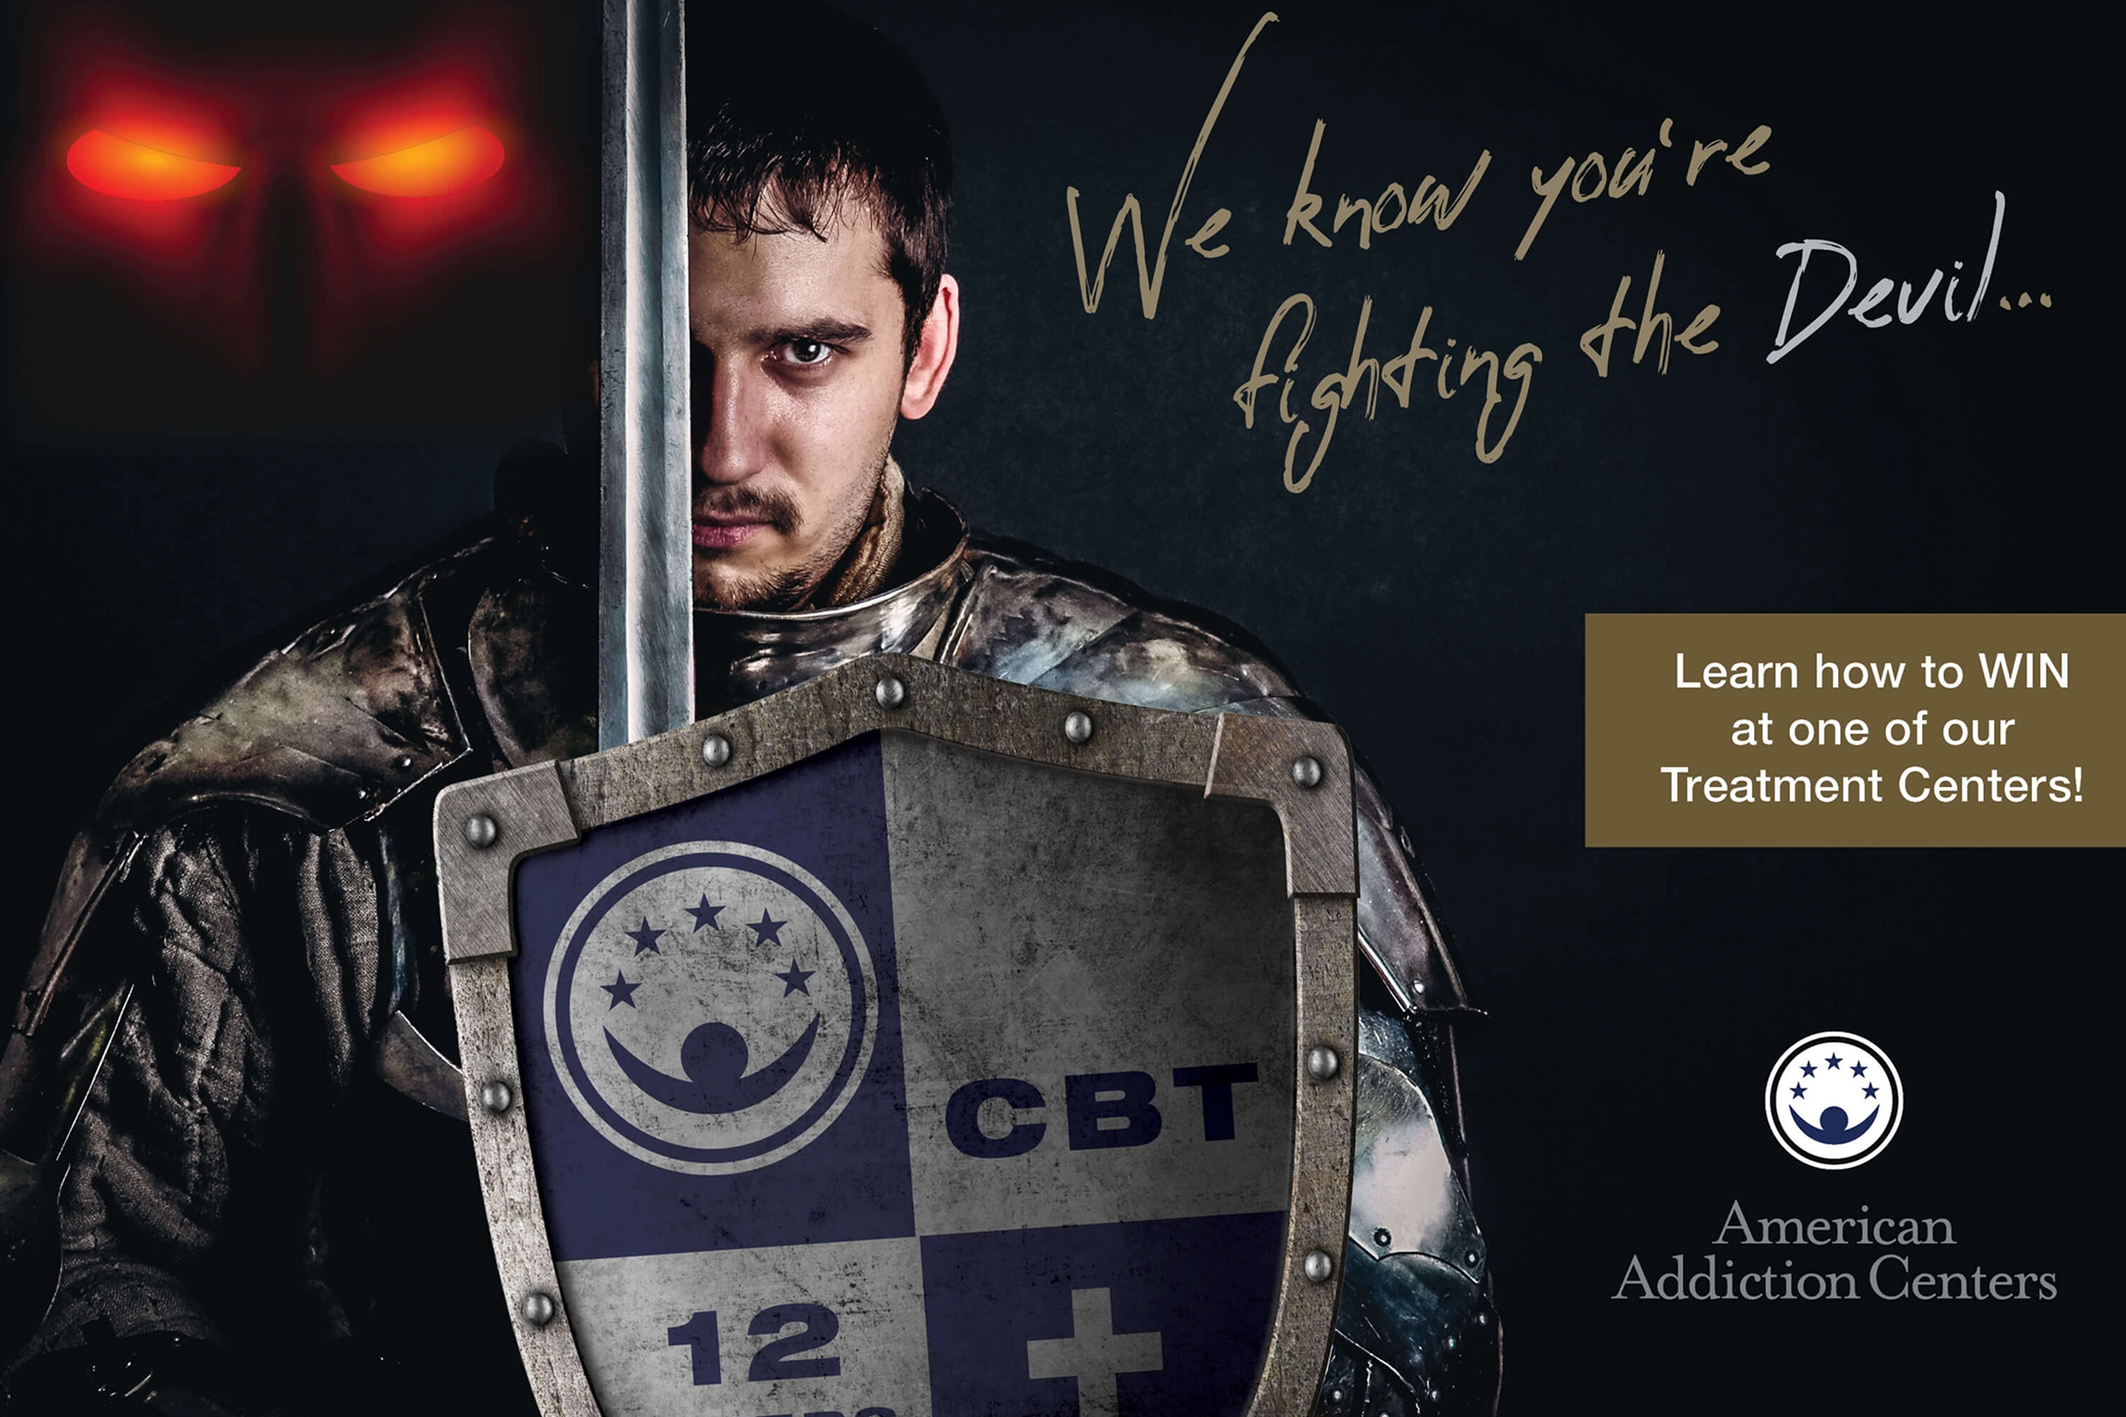
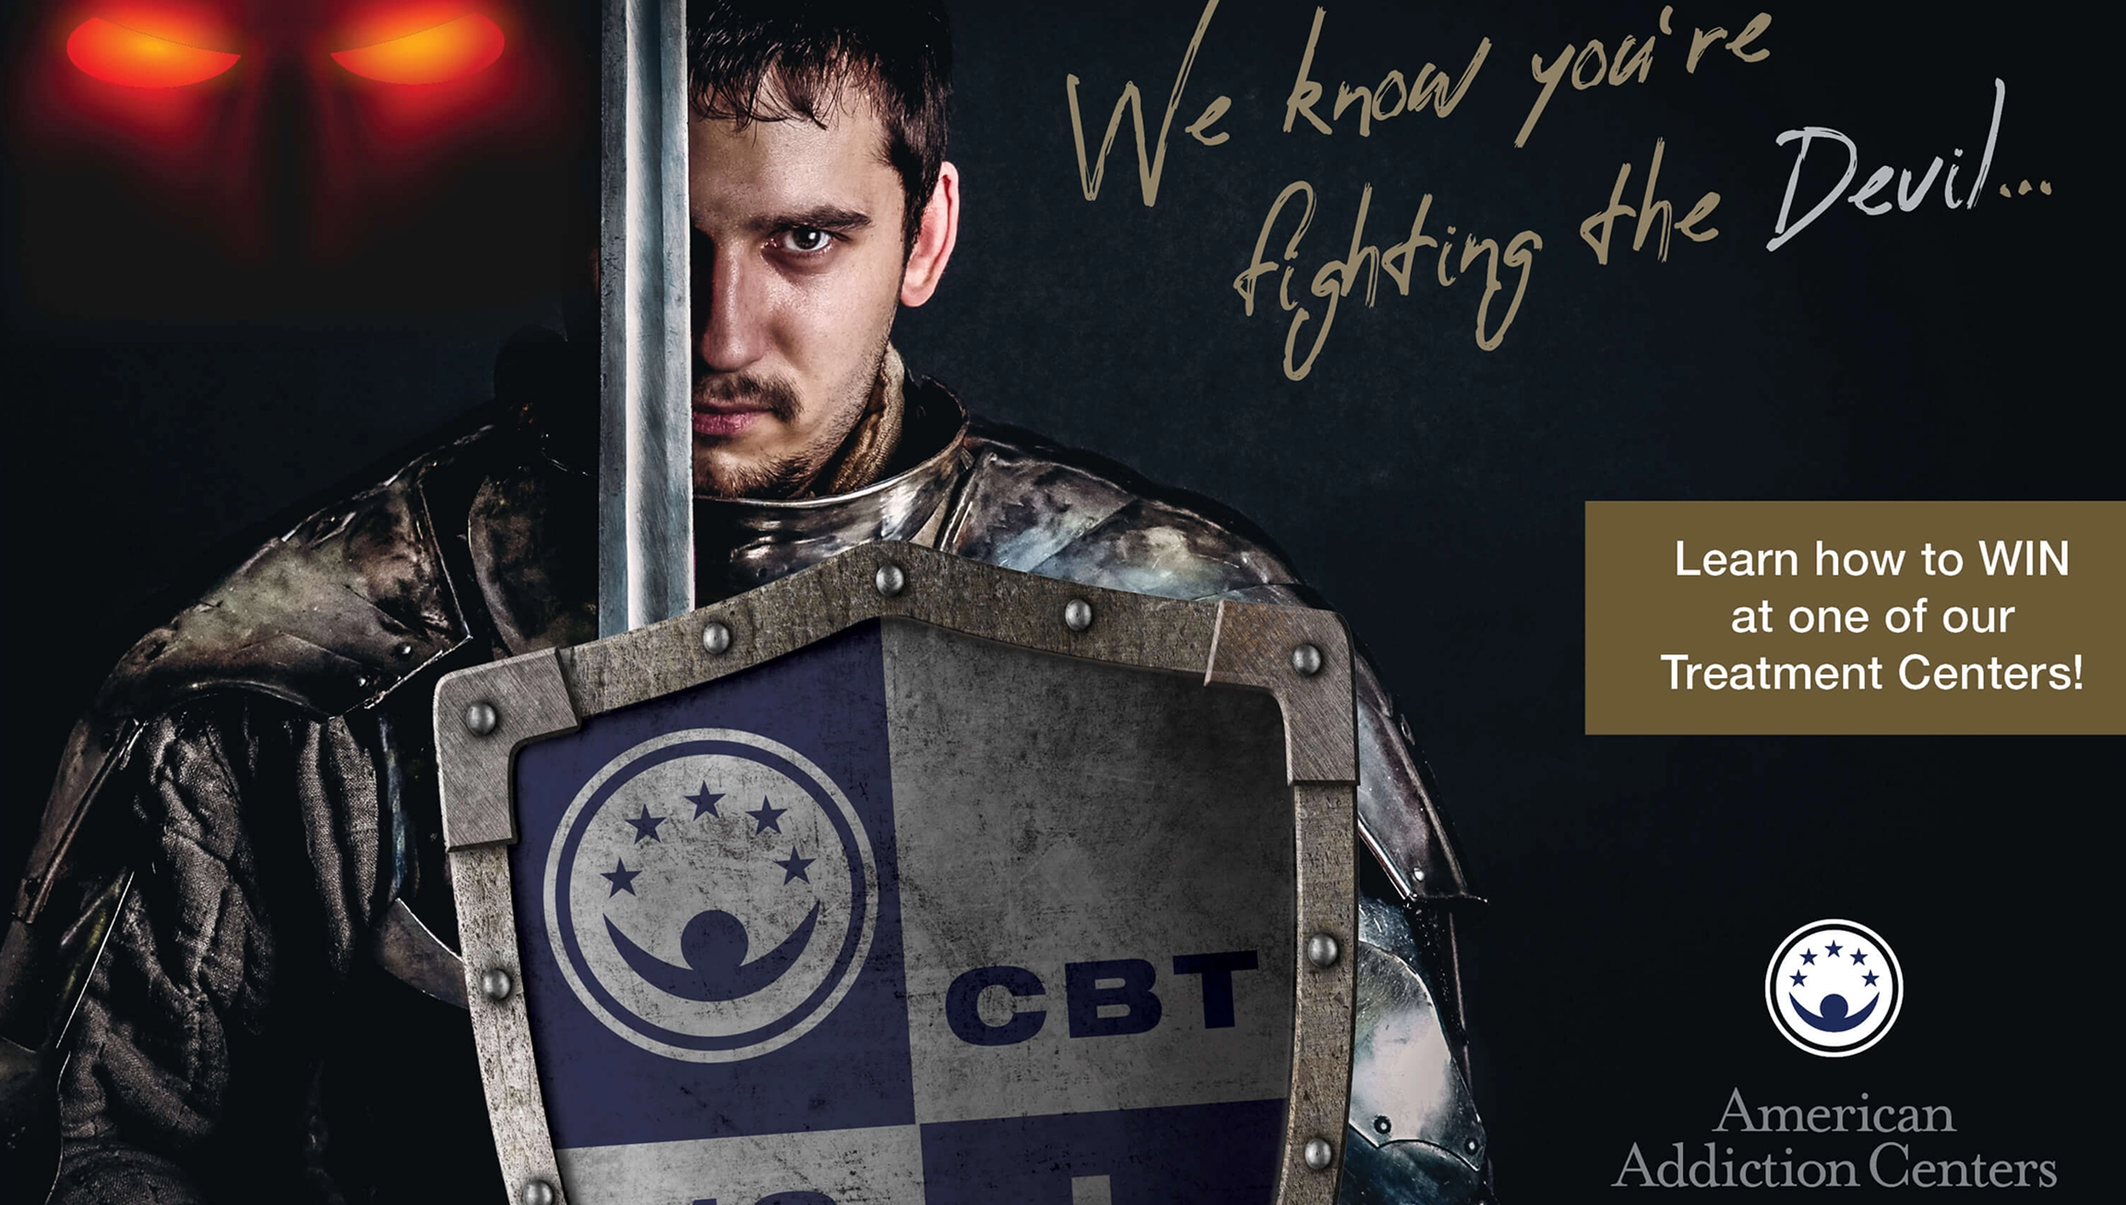
homepage  updates

diff --git a/index.html b/index.html
@@ -7,9 +7,9 @@ active_page: home
         <main uk-height-viewport="expand:true">
             <div class="uk-section uk-section-small">
                 <div class="uk-container uk-container-large">
-                    <div class="uk-width-1-1 uk-width-expand@m uk-margin-auto " uk-scrollspy="target: > div > div; cls: uk-animation-slide-bottom-small uk-animation-slide-right; delay: 200">
+                    <div class="uk-width-1-1 uk-width-expand@m uk-margin-auto" uk-scrollspy="target: > div > div; cls: uk-animation-slide-bottom-small uk-animation-slide-right; delay: 200">
 
-                        <div class="uk-grid uk-grid-large uk-flex uk-flex-top" uk-grid>
+                        <div class="uk-grid uk-flex uk-flex-top uk-grid-divider" uk-grid>
                             <!-- introduction start -->
                             <div id="introduction" class="uk-width-expand@m" >
                                 <h1 class="fw-600 " style="font-size: clamp(1.5rem, 3.5vw, 3rem)">Senior Multichannel Graphic Designer</h1>
@@ -31,132 +31,107 @@ active_page: home
 
 
                             <!-- projects -->
-                            <div id="samples" class="uk-width-2-3@m">
+                            <div id="samples" class="uk-width-3-5@m">
+                                
+                                <div class="">
 
+<div class="uk-grid uk-grid-medium uk-child-width-1-2@s" uk-grid>
 
-                                <div class="uk-grid uk-grid-small uk-child-width-1-2@s uk-light" uk-grid >
+    <!-- American Addiction Centers -->
+    <div>
+        <div class="uk-card uk-card-hover uk-background-muted uk-border-rounded-medium uk-overflow-hidden uk-transition-toggle uk-link-toggle" tabindex="0">
+            <a href="american-addiction-centers.html" class="uk-link-reset">
+                <div class="uk-card-media-top uk-inline-clip uk-border-rounded">
+                    <img src="img/aac/5W_AAC_home-cover.webp" alt="American Addiction Centers" class="uk-transition-scale-up uk-transition-opaque" uk-img>
+                </div>
+                <div class="uk-card-body uk-card-small">
+                    <h3 class="uk-card-title fs-14 fw-700 uk-margin-remove-bottom uk-margin-remove-top">American Addiction Centers</h3>
+                    <div class="fs-12 uk-text-muted uk-margin-xsmall-bottom">Campaigns &amp; Lead Gen</div>
+                </div>
+            </a>
+        </div>
+    </div>
 
-                                    <!-- American Addiction Centers -->
-                                    <div>
-                                        <a href="american-addiction-centers.html">
-                                            <div>
-                                                <div class="uk-background-cover uk-height-medium uk-panel uk-overflow-hidden uk-border-rounded-medium" style="background-image: url(img/aac/5W_AAC_home-cover.webp)">
+    <!-- Boy Scouts of America -->
+    <div>
+        <div class="uk-card uk-card-hover uk-background-muted uk-border-rounded-medium uk-overflow-hidden uk-transition-toggle uk-link-toggle" tabindex="0">
+            <a href="bsa-sjac.html" class="uk-link-reset">
+                <div class="uk-card-media-top uk-inline-clip uk-border-rounded">
+                    <img src="img/bsa/bsa-home-cover.webp" alt="Boy Scouts of America" class="uk-transition-scale-up uk-transition-opaque" uk-img>
+                </div>
+                <div class="uk-card-body uk-card-small">
+                        <h3 class="uk-card-title fs-14 fw-700 uk-margin-remove-bottom uk-margin-remove-top">Boy Scouts of America</h3>
+                    <div class="fs-12 uk-text-muted uk-margin-xsmall-bottom">Campaigns &amp; Lead Gen</div>
+                </div>
+            </a>
+        </div>
+    </div>
 
-                                                    <div class="uk-position-cover dark-frost"></div>
+    <!-- Chicago Auto Show -->
+    <div>
+        <div class="uk-card uk-card-hover uk-background-muted uk-border-rounded-medium uk-overflow-hidden uk-transition-toggle uk-link-toggle" tabindex="0">
+            <a href="chicago-auto-show.html" class="uk-link-reset">
+                <div class="uk-card-media-top uk-inline-clip">
+                    <img src="img/cas/cas_home-cover.webp" alt="Chicago Auto Show" class="uk-transition-scale-up uk-transition-opaque" uk-img>
+                </div>
+                <div class="uk-card-body uk-card-small ">
+                    <h3 class="uk-card-title fs-14 fw-700 uk-margin-remove-bottom uk-margin-remove-top">Chicago Auto Show</h3>
+                    <div class="fs-12 uk-text-muted uk-margin-xsmall-bottom">Brand &amp; Experiential</div>
+                </div>
+            </a>
+        </div>
+    </div>
 
-                                                    <div class="uk-overlay uk-position-bottom text-shadow">
-                                                        <div class="fs-24 fw-600 uk-margin-xsmall-bottom">American Addiction Centers</div>
-                                                        <div class="fs-18 fw-500 uk-margin-small-bottom">Multichannel eBook lead gen campaign &nbsp;&rarr;</div>
-                                                        <div class="fs-12 fw-400 uk-margin-small-bottom uk-hidden" style="letter-spacing: 0.25px"> Re-engaging specific, high-value segments through personalized, multichannel ebook campaign.</div>
-                                                        <div class="uk-label uk-background-muted uk-border-pill fs-10 fw-400">Campaigns &amp; Lead Gen</div>
-                                                    </div>
-                                                </div>
-                                            </div>
-                                        </a>
+    <!-- 5W Insights -->
+    <div>
+        <div class="uk-card uk-card-hover uk-background-muted uk-border-rounded-medium uk-overflow-hidden uk-transition-toggle uk-link-toggle" tabindex="0">
+            <a href="5winsights.html" class="uk-link-reset">
+                <div class="uk-card-media-top uk-inline-clip">
+                    <img src="img/5winsights/5w_home-cover.webp" alt="5W Insights" class="uk-transition-scale-up uk-transition-opaque" uk-img>
+                </div>
+                <div class="uk-card-body uk-card-small ">
+                    <h3 class="uk-card-title fs-14 fw-700 uk-margin-remove-bottom uk-margin-remove-top">5W Insights</h3>
+                    <div class="fs-12 uk-text-muted uk-margin-xsmall-bottom">Brand &amp; Experiential</div>
+                </div>
+            </a>
+        </div>
+    </div>
+
+    <!-- Strategic Design Transformations -->
+    <div>
+        <div class="uk-card uk-card-hover uk-background-muted uk-border-rounded-medium uk-overflow-hidden uk-transition-toggle uk-link-toggle" tabindex="0">
+            <a href="strategic-design-transformations.html" class="uk-link-reset">
+                <div class="uk-card-media-top uk-inline-clip">
+                    <img src="img/5winsights/sdt_home-cover.webp" alt="Strategic Design Transformations" class=" uk-transition-scale-up uk-transition-opaque" uk-img>
+                </div>
+                <div class="uk-card-body uk-card-small ">
+                    <h3 class="uk-card-title fs-14 fw-700 uk-margin-remove-bottom uk-margin-remove-top">Strategic Design Transformations</h3>
+                    <div class="fs-12 uk-text-muted uk-margin-xsmall-bottom">Digital Experience &amp; UI/UX</div>
+                </div>
+            </a>
+        </div>
+    </div>
+
+    <!-- Mack Trucks -->
+    <div>
+        <div class="uk-card uk-card-hover uk-background-muted uk-border-rounded-medium uk-overflow-hidden uk-transition-toggle uk-link-toggle" tabindex="0">
+            <a href="mack.html" class="uk-link-reset">
+                <div class="uk-card-media-top uk-inline-clip">
+                    <img src="img/mack/mack_home-cover.webp" alt="Mack Trucks" class="uk-transition-scale-up uk-transition-opaque" uk-img>
+                </div>
+                <div class="uk-card-body uk-card-small ">
+                    <h3 class="uk-card-title fs-14 fw-700 uk-margin-remove-bottom uk-margin-remove-top">Mack Trucks</h3>
+                    <div class="fs-12 uk-text-muted uk-margin-xsmall-bottom">Digital Experience &amp; UI/UX</div>
+                </div>
+            </a>
+        </div>
+    </div>
+
+</div>
                                     </div>
-
-                                    <!-- Boy Scouts -->
-                                    <div>
-                                        <a href="bsa-sjac.html">
-                                            <div>
-                                                <div class="uk-background-cover uk-height-medium uk-panel uk-overflow-hidden uk-border-rounded-medium" style="background-image: url(img/bsa/bsa-home-cover.webp)">
-
-                                                    <div class="uk-position-cover dark-frost"></div>
-
-                                                    <div class="uk-overlay uk-position-bottom text-shadow">
-                                                        <div class="fs-24 fw-600 uk-margin-xsmall-bottom">Boy Scouts of America</div>
-                                                        <div class="fs-18 fw-500 uk-margin-small-bottom">Highly successful fundraising appeal&nbsp;&rarr;</div>
-                                                        <div class="uk-label uk-background-muted uk-border-pill fs-10 fw-400">Campaigns &amp; Lead Gen</div>
-                                                    </div>
-                                                </div>
-                                            </div>
-                                        </a>
-                                    </div>
-                                    
-                                    <!-- Chicago Auto Show -->
-                                    <div>
-                                        <a href="chicago-auto-show.html">
-                                            <div>
-                                                <div class="uk-background-cover uk-height-medium uk-panel uk-overflow-hidden uk-border-rounded-medium" style="background-image: url(img/cas/cas-cta-banner.webp)">
-
-                                                    <div class="uk-position-cover dark-frost"></div>
-
-                                                    <div class="uk-overlay uk-position-bottom text-shadow">
-                                                        <div class="fs-24 fw-600 uk-margin-xsmall-bottom">Chicago Auto Show</div>
-                                                        <div class="fs-18 fw-500 uk-margin-small-bottom">Designing immersive event spaces&nbsp;&rarr;</div>
-                                                        <div class="fs-12 fw-400 uk-margin-small-bottom uk-visible@s" style="letter-spacing: 0.25px"></div>
-                                                        <div class="uk-label uk-background-muted uk-border-pill fs-10 fw-400">Brand &amp; Experiential</div>
-                                                    </div>
-                                                </div>
-                                            </div>
-                                        </a>
-                                    </div>          
-
-                                    <!-- 5W Insights -->
-                                    <div>
-                                        <a href="5winsights.html">
-                                            <div>
-                                                <div class="uk-background-cover uk-height-medium uk-panel uk-overflow-hidden uk-border-rounded-medium" style="background-image: url(img/5winsights/conference-backdrop-mockup.webp)">
-
-                                                    <div class="uk-position-cover dark-frost"></div>
-
-                                                    <div class="uk-overlay uk-position-bottom text-shadow">
-                                                        <div class="fs-24 fw-600 uk-margin-xsmall-bottom">5W Insights</div>
-                                                        <div class="fs-18 fw-500 uk-margin-small-bottom">Implementing a new brand identity&nbsp;&rarr;</div>
-                                                        <div class="fs-12 fw-400 uk-margin-small-bottom uk-hidden" style="letter-spacing: 0.25px">Unifing the brand experience across tradeshow, marketing, and promotional materials.</div>
-                                                        <div class="uk-label uk-background-muted uk-border-pill fs-10 fw-400">Brand &amp; Experiential</div>
-                                                    </div>
-                                                </div>
-                                            </div>
-                                        </a>
-                                    </div>
-                                    
-                                    <!-- Design Transformations -->
-                                    <div>
-                                        <a href="strategic-design-transformations.html">
-                                            <div>
-                                                <div class="uk-background-cover uk-height-medium uk-panel uk-overflow-hidden uk-border-rounded-medium" style="background-image: url(img/5winsights/before-after-promo.jpg)">
-
-                                                    <div class="uk-position-cover dark-frost"></div>
-
-                                                    <div class="uk-overlay uk-position-bottom text-shadow">
-                                                        <div class="fs-24 fw-600 uk-margin-xsmall-bottom">Strategic Design Transformations</div>
-                                                        <div class="fs-18 fw-500 uk-margin-small-bottom">Solving real world design problems&nbsp;&rarr;</div>
-                                                        <div class="fs-12 fw-400 uk-margin-small-bottom uk-visible@s" style="letter-spacing: 0.25px"></div>
-                                                        <div class="uk-label uk-background-muted uk-border-pill fs-10 fw-400">Digital Experience &amp; UI/UX</div>
-                                                    </div>
-                                                </div>
-                                            </div>
-                                        </a>
-                                    </div>          
-
-                                    <!-- Mack -->
-                                    <div>
-                                        <a href="mack.html">
-                                            <div class="">
-                                                <div class="uk-background-cover uk-height-medium uk-panel uk-overflow-hidden  uk-border-rounded-medium" style="background-image: url(img/mack/mack-driver-survey.webp);">
-
-                                                    <div class="uk-position-cover dark-frost"></div>
-
-                                                    <div class="uk-overlay uk-position-bottom text-shadow">
-                                                        <div class="fs-24 fw-600 uk-margin-xsmall-bottom">Mack Trucks</div>
-                                                        <div class="fs-18 fw-500 uk-margin-remove-top uk-margin-small-bottom">Evolving a digital survey experience&nbsp;&rarr;</div>
-                                                        <div class="fs-12 fw-400 uk-margin-small-bottom uk-hidden" style="letter-spacing: 0.25px">An exploration to elevate the visual design of a 2015 Mack Trucks survey website.</div>
-
-                                                        <div class="uk-label uk-background-muted uk-border-pill fs-10 fw-400">Digital Experience &amp; UI/UX</div>
-                                                    </div>
-                                                </div>
-                                            </div>
-                                        </a>
-                                    </div>
-
-                                    
-                                </div>
-
-                                <ul class="uk-slider-nav uk-dotnav uk-flex-center uk-margin"></ul>
-                            </div>
                             <!-- projects end -->
                         </div>
+                        </div> 
                     </div>
                 </div>
             </div>

diff --git a/css/custom.css b/css/custom.css
@@ -37,7 +37,7 @@
 :root{
     --primary: #237899ff;
     --secondary: #222;
-    --muted: rgba(167, 167, 167, 0.2);
+    --muted: rgba(167, 167, 167, 0.1);
     --muted-darker: rgb(102,102,102);
     --text: #424242;
     --background: #fafafa;
@@ -226,6 +226,14 @@ a.uk-logo > img {
 }
 .uk-card-hover:not(.uk-card-default):not(.uk-card-primary):not(.uk-card-secondary):hover {
     box-shadow: 2px 8px 14px rgba(0, 0, 0, 0.10)
+}
+/* Soften the card shadows and round the corners */
+.uk-card-default {
+    box-shadow: 0 4px 12px rgba(0,0,0,0.08);
+}
+.uk-card-hover:not(.uk-card-default, .uk-card-primary, .uk-card-secondary, .uk-card-overlay):hover
+{
+    background-color: var(--muted);
 }
 .uk-border-rounded {
     border-radius: 4px
@@ -477,7 +485,6 @@ hr,
 
 .frost-dark {
     background: rgba(0, 0, 0, 0.05);
-    box-shadow: 0 4px 30px rgba(0, 0, 0, 0.1);
     backdrop-filter: blur(6px);
     -webkit-backdrop-filter: blur(6px);
     border: 1px solid rgba(0, 0, 0, 0.15);
